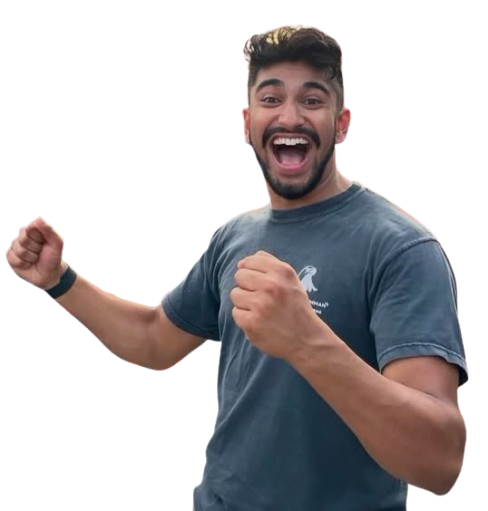
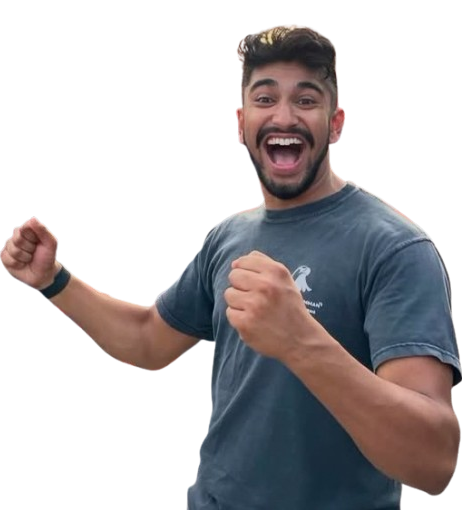
visual tweaks for manager images

diff --git a/fpl-site/styles/globals.css b/fpl-site/styles/globals.css
@@ -109,7 +109,7 @@ th button span {
 
 @media (max-width: 768px) {
   .hero-image {
-    left: 9px;
+    left: 5px;
     bottom: 0px;
     height: 150px;
   }
